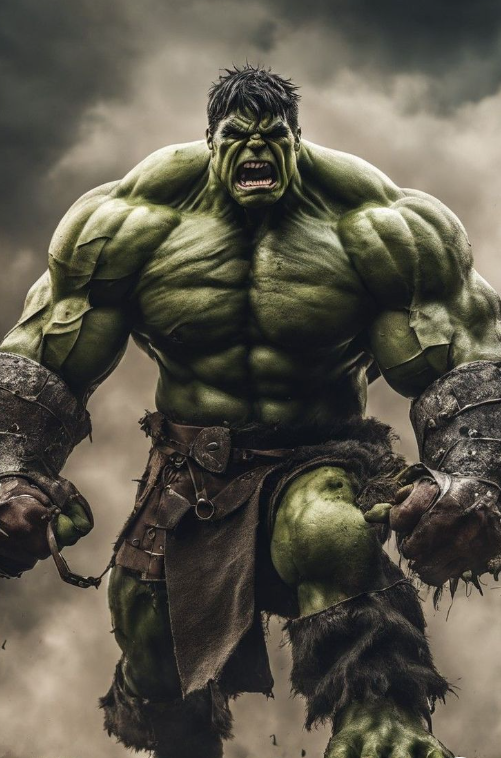
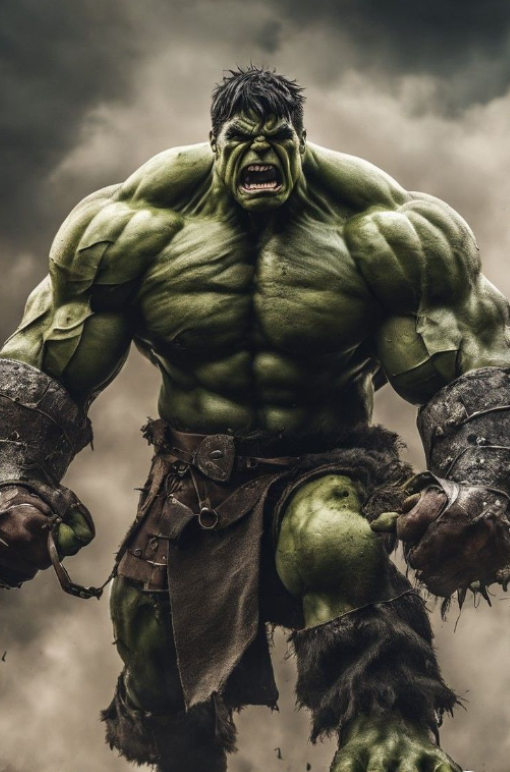
created custome positioning for each image

diff --git a/public/index.css b/public/index.css
@@ -102,7 +102,7 @@ main
 .target
 {
     /* color:rebeccapurple; */
-    font-size: small;
+    font-size: 10px;
     background-image: url("biblelogo.svg");
     background-position:center;
     background-repeat: no-repeat;
@@ -137,7 +137,7 @@ nav
     position: fixed;
     overflow-x: hidden;
     min-width: 100px;
-    font-size: .7em;
+    /* font-size: .1em; */
     
 }
 
@@ -219,14 +219,17 @@ li a, .dropbtn {
 
 .poster 
 {
-    background-color: black;
+    /* background-color: black; */
     /* border-radius: 10px 10px 0 0; */
     width: 100%;
     height: 80%;
     top:0;
     /* object-fit: cover; */
-    object-fit: scale-down;
-    object-position: center;
+    /* object-fit: contain; */
+    /* object-fit: scale-down; */
+    /* object-fit: none; */
+    /* object-position: 50% 20%; */
+    /* object-fit: center; */
     
 }
 .title p

diff --git a/public/index.js b/public/index.js
@@ -15,9 +15,11 @@ function displayStories(stories) {
   // Your logic to display or use the processed data goes here
   var main_text = '';
   for (var i = 0; i < stories.length; i++) {
+    console.log('here');
+    console.log(stories[i].position);
     main_text += 
     `<div class="stories" onclick = openPopup()>` +
-      `<img class = poster src="${stories[i].image}" alt="404 image not found" onclick = showStory(${i})>` +
+      `<img class="poster" src="${stories[i].image}" alt="404 image not found" onclick="showStory(${i})" style="object-fit:${stories[i].fit}; object-position:${stories[i].position};"> ` +
       `<div class="title">` +
         `<p>${stories[i].title}</p>` +
       `</div>
